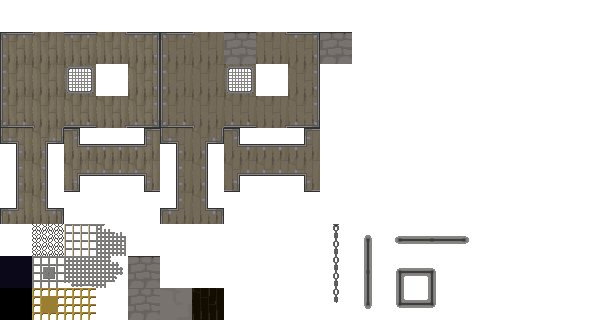
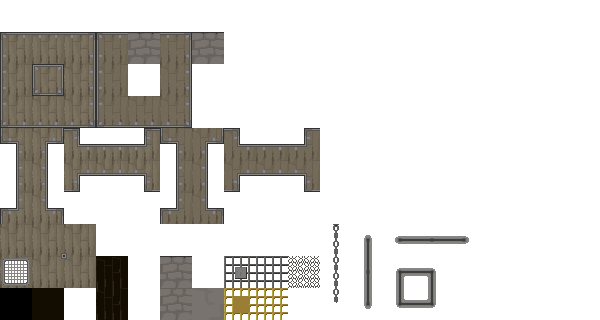
Fixed toki spritesheet and worked more on the level

diff --git a/src/states/TestLevel.js b/src/states/TestLevel.js
@@ -53,7 +53,7 @@ class TestLevel extends Phaser.State {
     // this.layer1 = this.map.createLayer('bg_decor')
     // this.layer0 = this.map.createLayer('main_level')
 
-    // this.map.setCollisionBetween(18, 114, true, this.layer0, true)
+    // this.map.setCollision([20, 37], true, this.layer0, true)
 
     // this.bodieslevel = this.game.physics.p2.convertTilemap(this.map, this.layer0)
 
